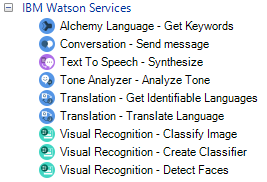
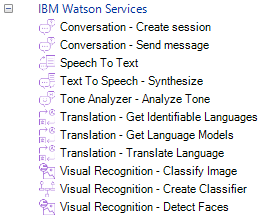
DES-1159 Updated README.md to reflect all the latest changed: - Renamed Bluemix into IBM cloud - Updated Mendix screenshots - Updated Watson service names and URLs - Removed reference to username/password authentication

diff --git a/README.md b/README.md
@@ -5,32 +5,37 @@ For the latest documentation, please refer to our [Mendix Docs](https://docs.men
 
 ## Try it out an example in Bluemix
 
-1. Deploy an example application using the Mendix's IBM Watson Connector Suite by clicking on the following button (or follow [this documentation](documentation/deploy-bluemix-button.md)). [![Deploy to Bluemix](https://bluemix.net/deploy/button.png)](https://bluemix.net/deploy?repository=https://github.com/mendix/IBM-Watson-Connector-Suite.git)
+1. Deploy an example application using the Mendix's IBM Watson Connector Suite by clicking on the following button (or follow [this documentation](documentation/deploy-bluemix-button.md)).
 
-2. When possible, IBM watson services should be automatically configured. To check the service and configure the Alchemy service manually please refer to the [documentation here](documentation/usage.md).
+   [![Deploy to IBM Cloud](https://cloud.ibm.com/devops/setup/deploy/button.png)](https://cloud.ibm.com/devops/setup/deploy?repository=https://github.com/mendix/IBM-Watson-Connector-Suite.git)
+
+2. When possible, IBM Watson services should be automatically configured. To check the service, please refer to the [documentation here](documentation/usage.md).
 
 ## Getting Started with the connectors
 
-With this project and you will be ready to go using the [Mendix Modeler](https://appstore.home.mendix.com/index3.html) to deploy locally or in the Mendix free tier (because this is an example app plus the connectors that point to several IBM Watson services).
+With this project and you will be ready to go using the [Mendix Modeler](https://appstore.home.mendix.com/link/modelers/) to deploy locally or in the Mendix free tier (because this is an example app plus the connectors that point to several IBM Watson services).
 
 ### Prerequisities
 
 * Mendix user account (sign up [here](https://www.mendix.com/try-now/))
-* IBM Bluemix account (sign up [here](https://console.ng.bluemix.net/registration/))
-* Mendix Modeler (only Windows-compatible) (download [here](https://appstore.home.mendix.com/index3.html))
+* IBM Cloud account (sign up [here](https://cloud.ibm.com/registration))
+* Mendix Modeler (only Windows-compatible) (download [here](https://appstore.home.mendix.com/link/modelers/))
 
 ### Features
 
 These are the Watson APIs that have a connector implemented:
 
-* Conversation – [Send Message](http://www.ibm.com/watson/developercloud/conversation/api/v1/#send_message)
-* Language Translation – [Translate](http://www.ibm.com/watson/developercloud/language-translation/api/v2/#translate)
-* Language Translation – [Get Identifiable Languages](http://www.ibm.com/watson/developercloud/language-translation/api/v2/#identifiable_languages)
-* Text to Speech – [Synthesize](http://www.ibm.com/watson/developercloud/text-to-speech/api/v1/#synthesize audio)
-* Tone Analyzer – [Analyze Tone ](https://www.ibm.com/watson/developercloud/tone-analyzer/api/v3/#post-tone)
-* Visual Recognition – [Classify Image](http://www.ibm.com/watson/developercloud/visual-recognition/api/v3/#classify_an_image)
-* Visual Recognition – [Create Classifier](http://www.ibm.com/watson/developercloud/visual-recognition/api/v3/#create_a_classifier)
-* Visual Recognition - [Detect Faces](http://www.ibm.com/watson/developercloud/visual-recognition/api/v3/#detect_faces)
+* Assistant (formerly Conversation) – [Create Session](https://cloud.ibm.com/apidocs/assistant-v2#create-a-session)
+* Assistant (formerly Conversation) – [Send Message](https://cloud.ibm.com/apidocs/assistant-v2#send-user-input-to-assistant)
+* Language Translation – [Translate](https://cloud.ibm.com/apidocs/language-translator#translate)
+* Language Translation – [Get Identifiable Languages](https://cloud.ibm.com/apidocs/language-translator#list-identifiable-languages)
+* Language Translation – [Get Models](https://cloud.ibm.com/apidocs/language-translator#list-models)
+* Text to Speech – [Synthesize](https://cloud.ibm.com/apidocs/text-to-speech#synthesize-audio)
+* Speech to Text – [Recognize Audio](https://cloud.ibm.com/apidocs/speech-to-text#recognize-audio)
+* Tone Analyzer – [Analyze Tone](https://cloud.ibm.com/apidocs/tone-analyzer#analyze-general-tone)
+* Visual Recognition – [Classify Image](https://cloud.ibm.com/apidocs/visual-recognition#classify-an-image)
+* Visual Recognition – [Create Classifier](https://cloud.ibm.com/apidocs/visual-recognition#create-a-classifier)
+* Visual Recognition – [Detect Faces](https://cloud.ibm.com/apidocs/visual-recognition#detect-faces-in-an-image)
 
 ### Installation
 
@@ -48,29 +53,17 @@ Once you have imported the module into your project, you will have at your dispo
 
 ### Configuration
 
-In your IBM Bluemix console, every instance of a Watson service will have a section called "Service credentials", which will provide you the data in a format like this:
+In your IBM Cloud console, every instance of a Watson service will have a section called "Service credentials", which will provide you the data in a format like this:
 
 ```
 {
   "credentials": {
-    "url": "<SERVICE_URL_PROVIDED_BY_IBM_BLUEMIX>",
-    "note": "It may take up to 5 minutes for this key to become active",
-    "apikey": "<YOUR_API_KEY>"
+    "apikey": "<YOUR_API_KEY>",
+    "url": "<SERVICE_URL_PROVIDED_BY_IBM_CLOUD>"
   }
 }
 ```
 
-Alternatively, if the service does not require an API key, it will instead require a username and password:
-
-```
-{
-  "credentials": {
-    "url": "<SERVICE_URL_PROVIDED_BY_IBM_BLUEMIX>",
-    "password": "<YOUR_PASSWORD>",
-    "username": "<YOUR_USERNAME>"
-  }
-}
-```
 Please follow the instructions in the example app to provide the service with the necessary credentials.
 
 ## Dependencies
@@ -78,8 +71,6 @@ Please follow the instructions in the example app to provide the service with th
 The Watson Connectors Suite will install the following dependencies in your project's *userlib* folder:
 
 * java-sdk-x.y.z-jar-with-dependencies.jar
-* org.apache.commons.io-2.3.0.jar
-* org.apache.commons.lang3.jar
 
 > Note: Please be aware if you upgrade The Watson Connector Suite in your project, you will have to remove manually the old version of these dependencies.
 
@@ -91,7 +82,7 @@ The ChatWidget doesn't show the username properly when the example app is deploy
 
 This was built with the following:
 
-* Mendix Modeler 6.6.0
+* Mendix Modeler 7.15.1
 * Eclipse IDE Neon
 
 ## Versioning
